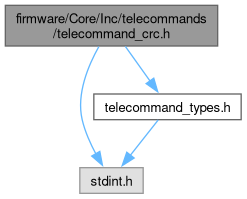
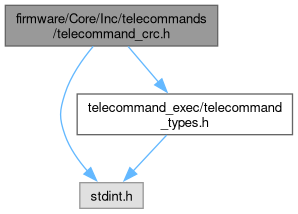
deploy: c7a15d582f6b6abafbed5877b03a4ab53e332712

diff --git a/telecommand__crc_8h.html b/telecommand__crc_8h.html
@@ -94,18 +94,18 @@ $(function(){ initResizable(false); });
 </div><!--header-->
 <div class="contents">
 <div class="textblock"><code>#include &lt;stdint.h&gt;</code><br />
-<code>#include &quot;<a class="el" href="telecommand__types_8h_source.html">telecommand_types.h</a>&quot;</code><br />
+<code>#include &quot;<a class="el" href="telecommand__types_8h_source.html">telecommand_exec/telecommand_types.h</a>&quot;</code><br />
 </div><div class="textblock"><div class="dynheader">
 Include dependency graph for telecommand_crc.h:</div>
 <div class="dyncontent">
 <div class="center"><img src="telecommand__crc_8h__incl.png" border="0" usemap="#afirmware_2Core_2Inc_2telecommands_2telecommand__crc_8h" alt=""/></div>
 <map name="afirmware_2Core_2Inc_2telecommands_2telecommand__crc_8h" id="afirmware_2Core_2Inc_2telecommands_2telecommand__crc_8h">
 <area shape="rect" title=" " alt="" coords="5,5,218,46"/>
-<area shape="rect" title=" " alt="" coords="80,168,143,193"/>
-<area shape="poly" title=" " alt="" coords="101,48,87,81,83,100,85,119,98,153,93,155,80,120,78,100,82,80,96,46"/>
-<area shape="rect" href="telecommand__types_8h.html" title=" " alt="" coords="94,94,241,120"/>
-<area shape="poly" title=" " alt="" coords="128,45,152,79,148,83,123,48"/>
-<area shape="poly" title=" " alt="" coords="160,122,132,157,128,154,156,118"/>
+<area shape="rect" title=" " alt="" coords="80,183,143,208"/>
+<area shape="poly" title=" " alt="" coords="95,48,79,70,67,95,63,114,67,134,77,153,90,169,85,173,72,155,62,136,58,114,62,93,75,67,91,45"/>
+<area shape="rect" href="telecommand__types_8h.html" title=" " alt="" coords="77,94,292,135"/>
+<area shape="poly" title=" " alt="" coords="130,45,160,80,156,84,126,48"/>
+<area shape="poly" title=" " alt="" coords="169,137,135,173,131,169,165,133"/>
 </map>
 </div>
 </div><div class="textblock"><div class="dynheader">

diff --git a/telecommand__crc_8h_source.html b/telecommand__crc_8h_source.html
@@ -92,7 +92,7 @@ $(function(){ initResizable(false); });
 </div><!--header-->
 <div class="contents">
 <a href="telecommand__crc_8h.html">Go to the documentation of this file.</a><div class="fragment"><div class="line"><a id="l00001" name="l00001"></a><span class="lineno">    1</span><span class="preprocessor">#include &lt;stdint.h&gt;</span></div>
-<div class="line"><a id="l00002" name="l00002"></a><span class="lineno">    2</span><span class="preprocessor">#include &quot;<a class="code" href="telecommand__types_8h.html">telecommand_types.h</a>&quot;</span></div>
+<div class="line"><a id="l00002" name="l00002"></a><span class="lineno">    2</span><span class="preprocessor">#include &quot;<a class="code" href="telecommand__types_8h.html">telecommand_exec/telecommand_types.h</a>&quot;</span></div>
 <div class="line"><a id="l00003" name="l00003"></a><span class="lineno">    3</span> </div>
 <div class="line"><a id="l00004" name="l00004"></a><span class="lineno">    4</span>uint8_t <a class="code hl_function" href="telecommand__crc_8h.html#a18dc8552816cec01005e7b717867f9a5">TCMDEXEC_crc</a>(<span class="keyword">const</span> <span class="keywordtype">char</span> *args_str, <a class="code hl_enumeration" href="telecommand__types_8h.html#ae7b2ad17e7a3bbfa03b0d463b3a86d7c">TCMD_TelecommandChannel_enum_t</a> tcmd_channel,<span class="keywordtype">char</span> *response_output_buf,</div>
 <div class="line"><a id="l00005" name="l00005"></a><span class="lineno">    5</span>                        uint16_t response_output_buf_len);</div>
